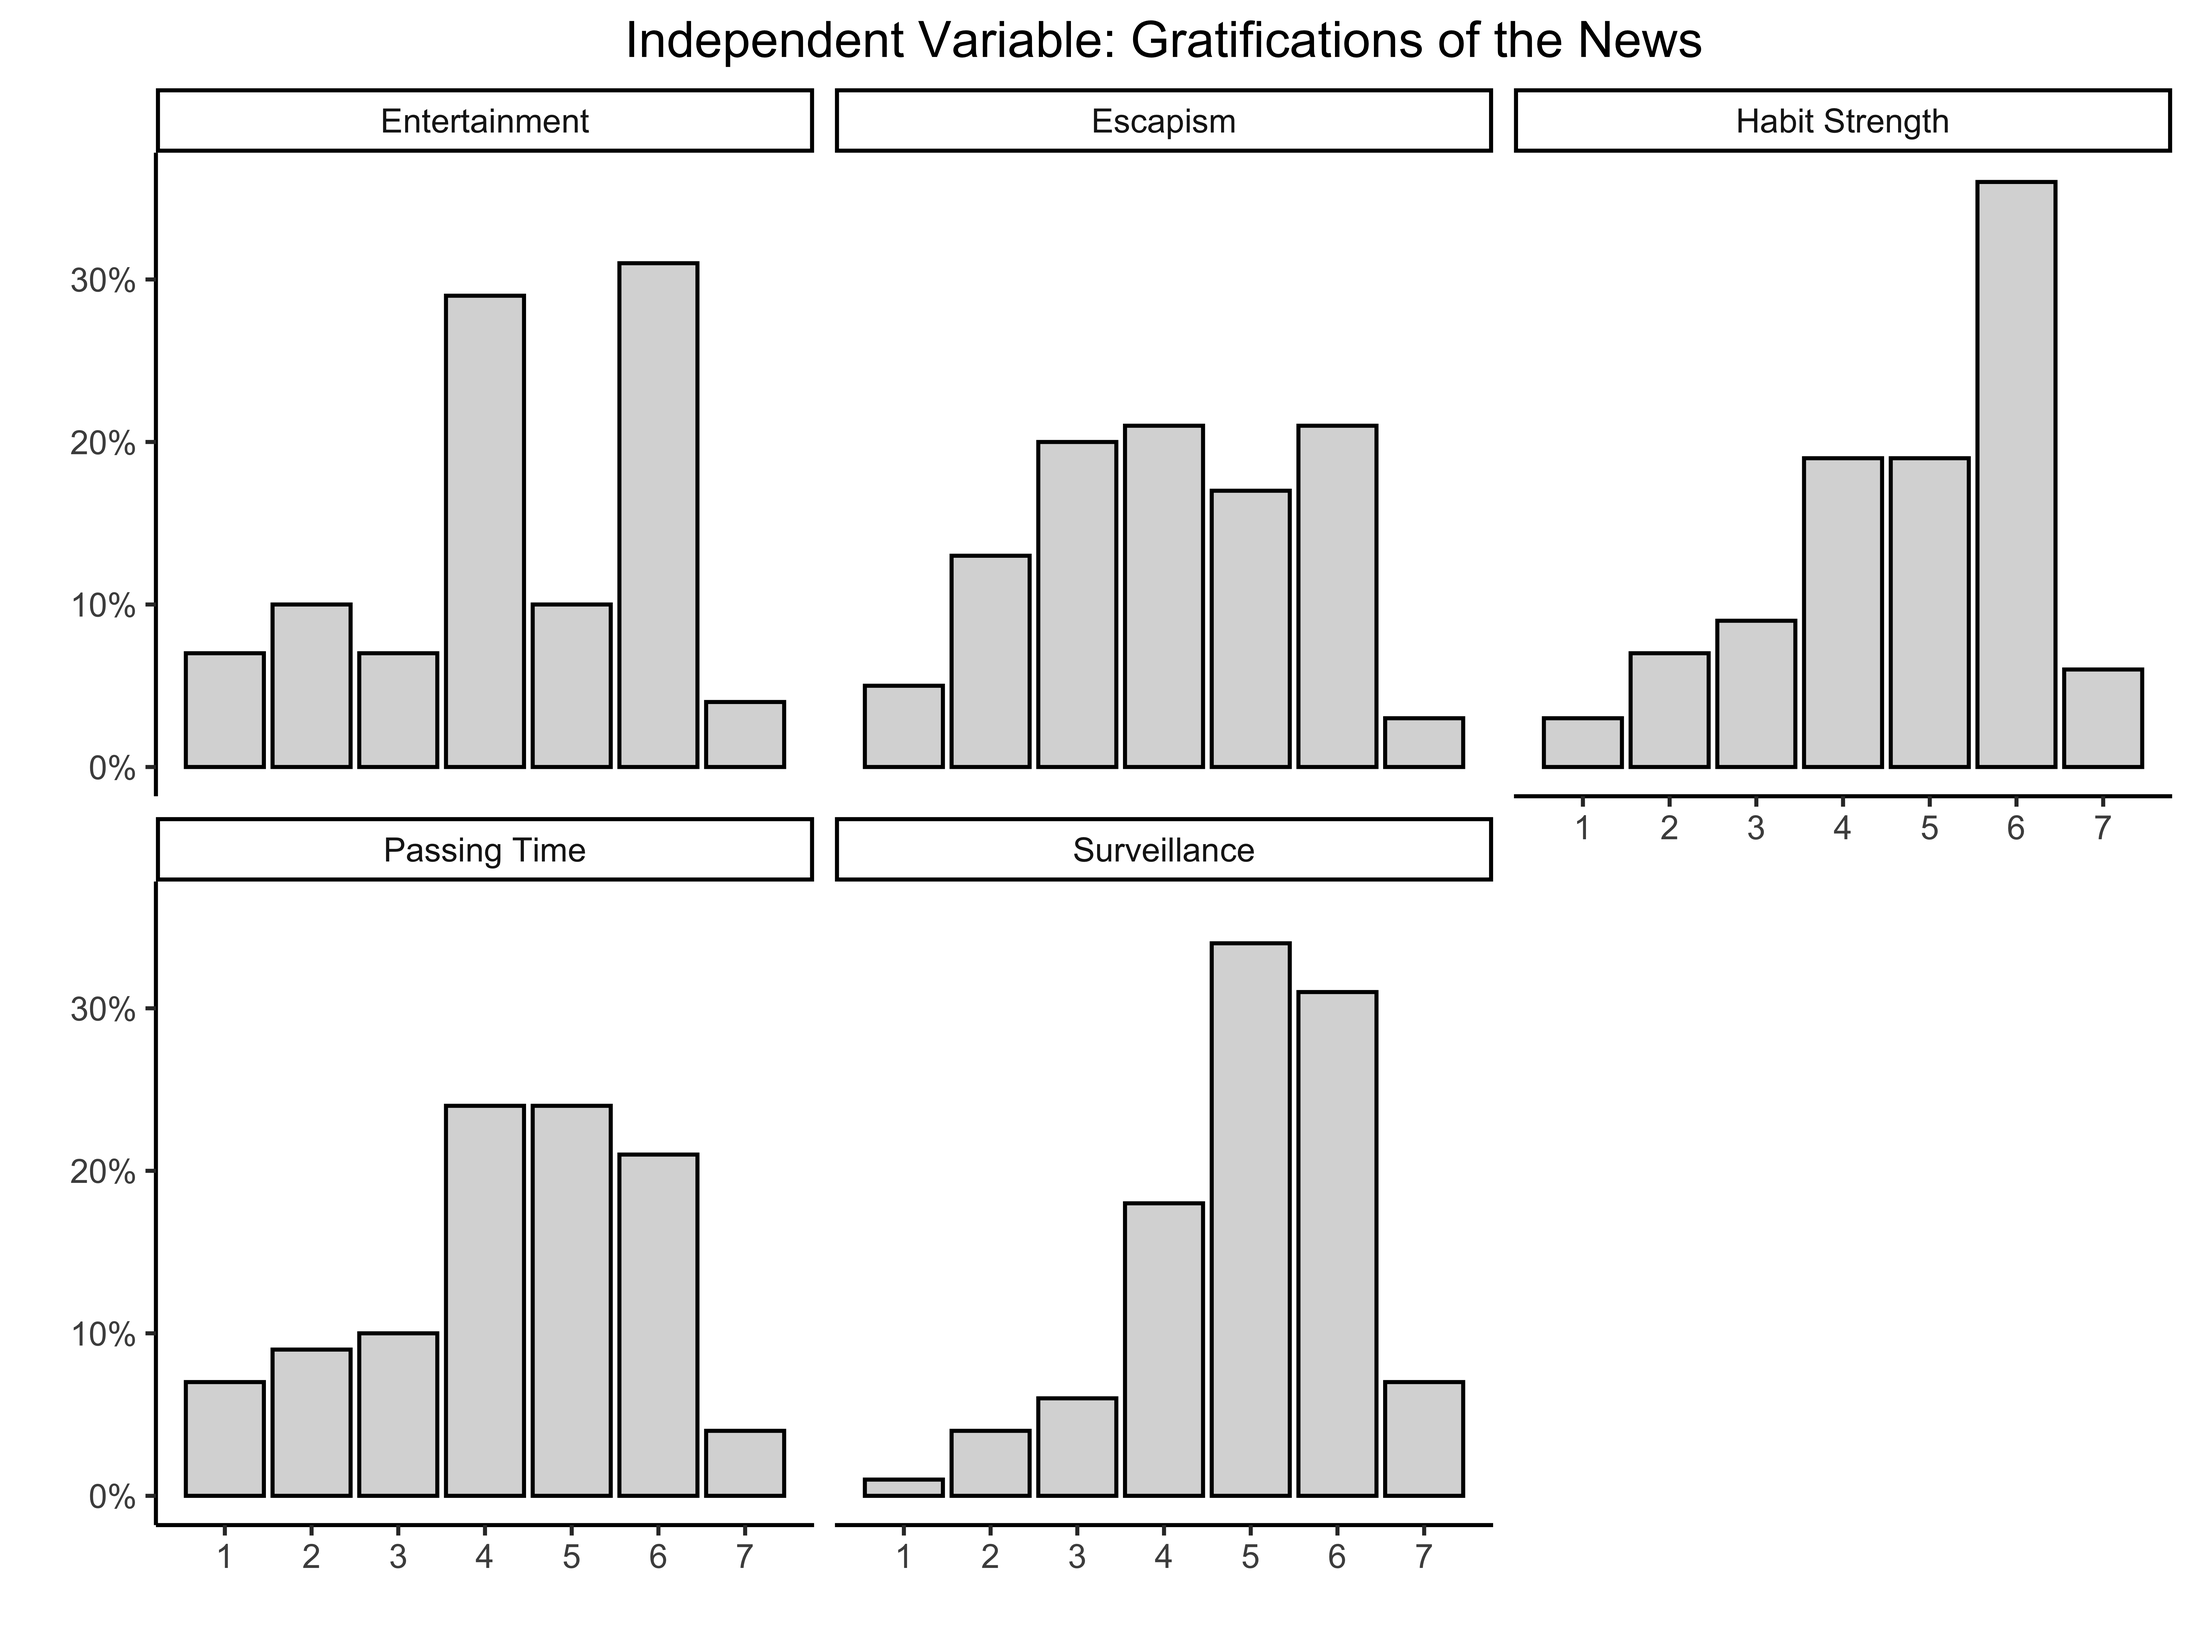
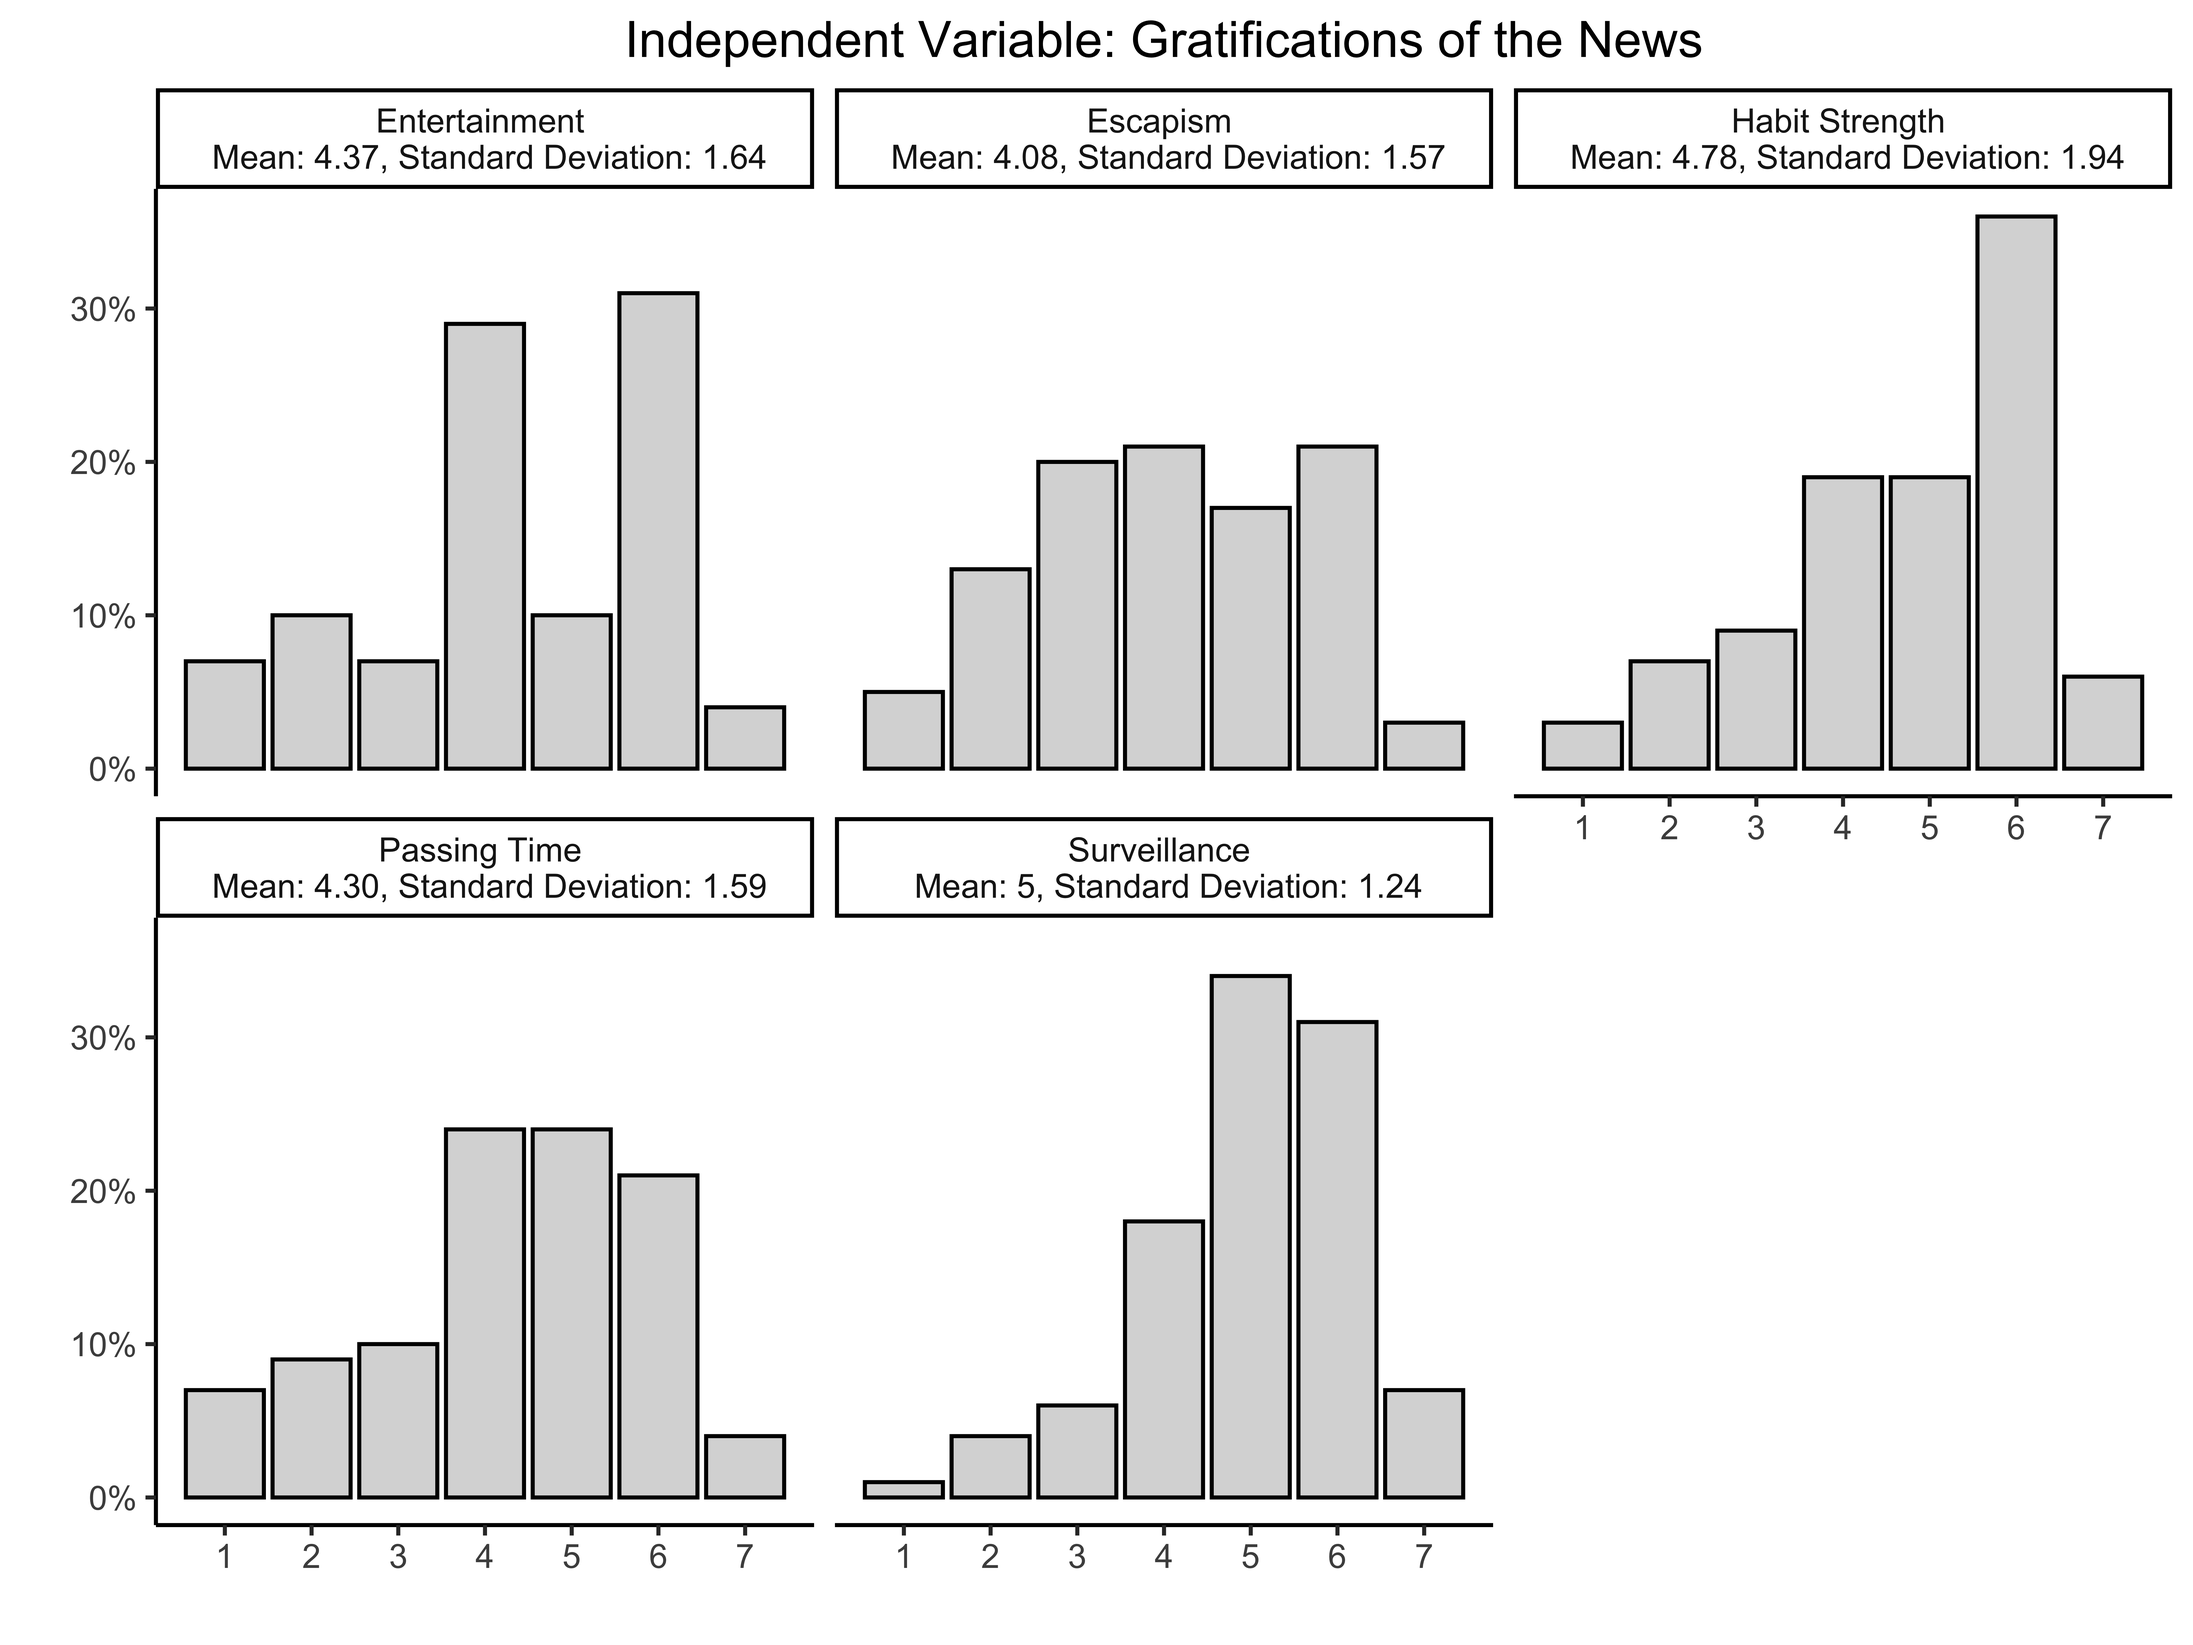
description US Data

diff --git a/src/data-processing/00_PrepareData_US.md b/src/data-processing/00_PrepareData_US.md
@@ -233,17 +233,20 @@ Dependent Variable
 * Algorithmic Appreciation
 
  ``` r
-# Dependent Variable
+##  Dependent Variable
 tibble(values = round(table(df$algo_app)/dim(df)[1],2),
        algo_app = 0:4) %>%
   ggplot(aes(x = algo_app, y = values)) +
   geom_col(fill = "gray85", colour = "black") +
   theme_classic() + 
-  theme(plot.title = element_text(hjust = 0.5)) +
+  theme(plot.title = element_text(hjust = 0.5),
+        plot.subtitle = element_text(hjust = 0.5)) +
   scale_y_continuous(labels = scales::percent) +
-  labs(x = "", y="", title = "Dependent Variable: Algorithmic Appreciation") 
+  labs(x = "", y="", title = "Dependent Variable: Algorithmic Appreciation",
+       subtitle = "Mean: 2.15, Standard Deviation: 1.38")
 ggsave("../../report/figures/Distributions_DV_US.png", width=8, height=4, dpi=900)
 ```
+
 ![Figure](../../report/figures/Distributions_DV_US.png)
 
 Independent Variable
@@ -256,22 +259,22 @@ Independent Variable
 	- Surveillance
 
  ``` r
-# Independent Variables
+##  Independent Variables
 rbind(tibble(freq = round(table(df$hs)/dim(df)[1],2),
              values = 1:7,
-             id = "Habit Strength"), 
+             id = "Habit Strength \n Mean: 4.78, Standard Deviation: 1.94"), 
       tibble(freq = round(table(df$surv)/dim(df)[1],2),
              values = 1:7,
-             id = "Surveillance"),
+             id = "Surveillance \n Mean: 5, Standard Deviation: 1.24"),
       tibble(freq = round(table(df$esc)/dim(df)[1],2),
              values = 1:7,
-             id = "Escapism"),
+             id = "Escapism \n Mean: 4.08, Standard Deviation: 1.57"),
       tibble(freq = round(table(df$pt)/dim(df)[1],2),
              values = 1:7,
-             id = "Passing Time"),
+             id = "Passing Time \n Mean: 4.30, Standard Deviation: 1.59"),
       tibble(freq = round(table(df$ent)/dim(df)[1],2),
              values = 1:7,
-             id = "Entertainment")) %>%
+             id = "Entertainment \n Mean: 4.37, Standard Deviation: 1.64")) %>%
   ggplot(aes(x = values, y = freq)) +
   geom_col(fill = "gray85", colour = "black") +
   theme_classic() + 
@@ -297,10 +300,12 @@ tibble(values = round(table(df$eo)/dim(df)[1],2),
   ggplot(aes(x = eo, y = values)) +
   geom_bar(stat = "identity", fill = "gray85", colour = "black") +
   theme_classic() + 
-  theme(plot.title = element_text(hjust = 0.5)) +
+  theme(plot.title = element_text(hjust = 0.5),
+        plot.subtitle = element_text(hjust = 0.5)) +
   scale_y_continuous(labels = scales::percent) +
   scale_x_continuous(breaks = -6:7) +
-  labs(x = "", y="", title = "Moderator: Epistemic Overconfidence") 
+  labs(x = "", y="", title = "Moderator: Epistemic Overconfidence",
+       subtitle = "Mean: 2.46, Standard Deviation: 2.28") 
 ggsave("../../report/figures/Distributions_Moderator_US.png", width=8, height=4, dpi=900)
 ```
 
@@ -317,10 +322,44 @@ Control Variables
 - Age
 
  ``` r
- # Controls
- 
+# Controls
+df <- df%>%
+  mutate(age_group = ifelse(age > 21 & age < 30, "20's",
+                     ifelse(age > 29 & age < 40, "30's",
+                     ifelse(age > 39 & age < 50, "40's",
+                     ifelse(age > 49 & age < 60, "50's",
+                     ifelse(age > 59 & age < 70, "60's",
+                     ifelse(age > 69 & age < 80, "70's", NA)))))))
+         
+rbind(tibble(freq = round(table(df$trust)/dim(df)[1],2),
+             values = 1:7,
+             id = "Trust in Media \n Mean: 4.91, Standard Deviation: 1.10"), 
+      tibble(freq = round(table(df$news)/dim(df)[1],2),
+             values = 0:7,
+             id = "News Usage \n Mean: 4.42, Standard Deviation: 1.56"),
+      tibble(freq = round(table(df$polef)/dim(df)[1],2),
+             values = 1:7,
+             id = "Political Efficacy \n Mean: 5.02, Standard Deviation: 1.11"),
+      tibble(freq = round(table(df$pid)/dim(df)[1],2),
+             values = levels(df$pid),
+             id = "Party ID \n Median: Democrat"),
+      tibble(freq = round(table(df$gender)/dim(df)[1],2),
+             values = levels(df$gender),
+             id = "Gender \n Median: Male"),
+      tibble(freq = round(table(df$age_group)/dim(df)[1],2),
+             values = c("20's", "30's", "40's", "50's", "60's", "70's"),
+             id = "Age \n Mean: 38.74, Standard Deviation: 12.33")) %>%
+  ggplot(aes(x = values, y = freq)) +
+  facet_wrap(~ id, ncol = 3, scales = "free") +
+  geom_col(fill = "gray85", colour = "black") +
+  theme_classic() + 
+  theme(plot.title = element_text(hjust = 0.5)) +
+  scale_y_continuous(labels = scales::percent) +
+  #scale_x_continuous(breaks = 1:7) +
+  labs(x = "", y="", title = "Independent Variable: Gratifications of the News") 
+ggsave("../../report/figures/Distributions_Controls_US.png", width=10, height=6, dpi=900) 
 ```
-![Figure](../../report/figures/Distributions_Demographics_experiment2.png)
+![Figure](../../report/figures/Distributions_Controls_US.png)
 
 Missing Data
 ====
